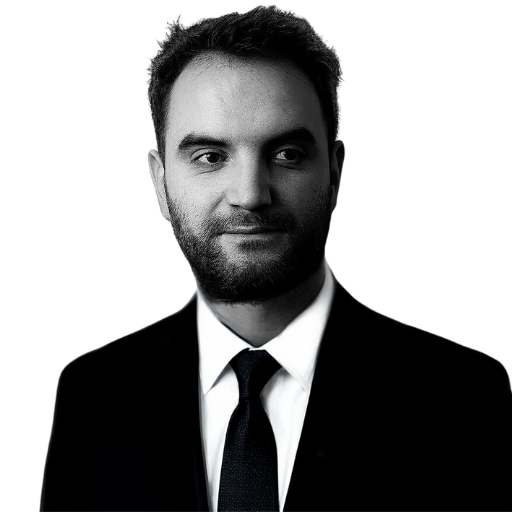
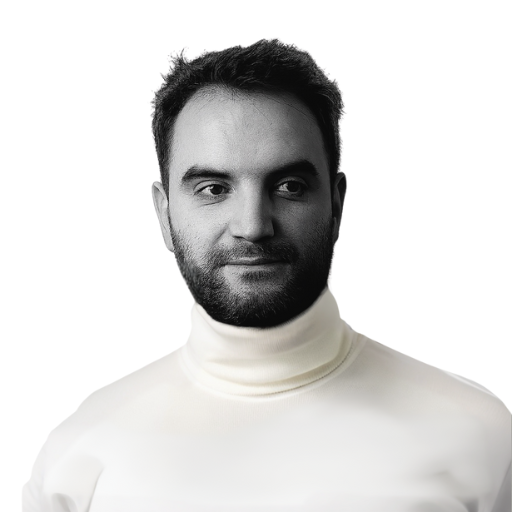
feat: change hero image

diff --git a/docs/index.html b/docs/index.html
@@ -539,6 +539,27 @@ body{
 .faq summary{ cursor:pointer; font-weight:700; }
 .faq p{ margin:8px 0 0; color:#cfcfcf; }
 
+
+.portrait-wrap {
+  position: relative;
+  display: inline-block;
+}
+
+.portrait {
+  width: 100%;
+  filter: grayscale(100%);
+  object-fit: cover;
+  mask-image: radial-gradient(circle at center, rgba(0,0,0,1) 90%, rgba(0,0,0,0) 100%);
+  -webkit-mask-image: radial-gradient(circle at center, rgba(0,0,0,1) 90%, rgba(0,0,0,0) 100%);
+  mask-repeat: no-repeat;
+  -webkit-mask-repeat: no-repeat;
+  mask-position: center;
+  -webkit-mask-position: center;
+  mask-size: cover;
+  -webkit-mask-size: cover;
+}
+
+
 </style>
 </head>
 <body>
